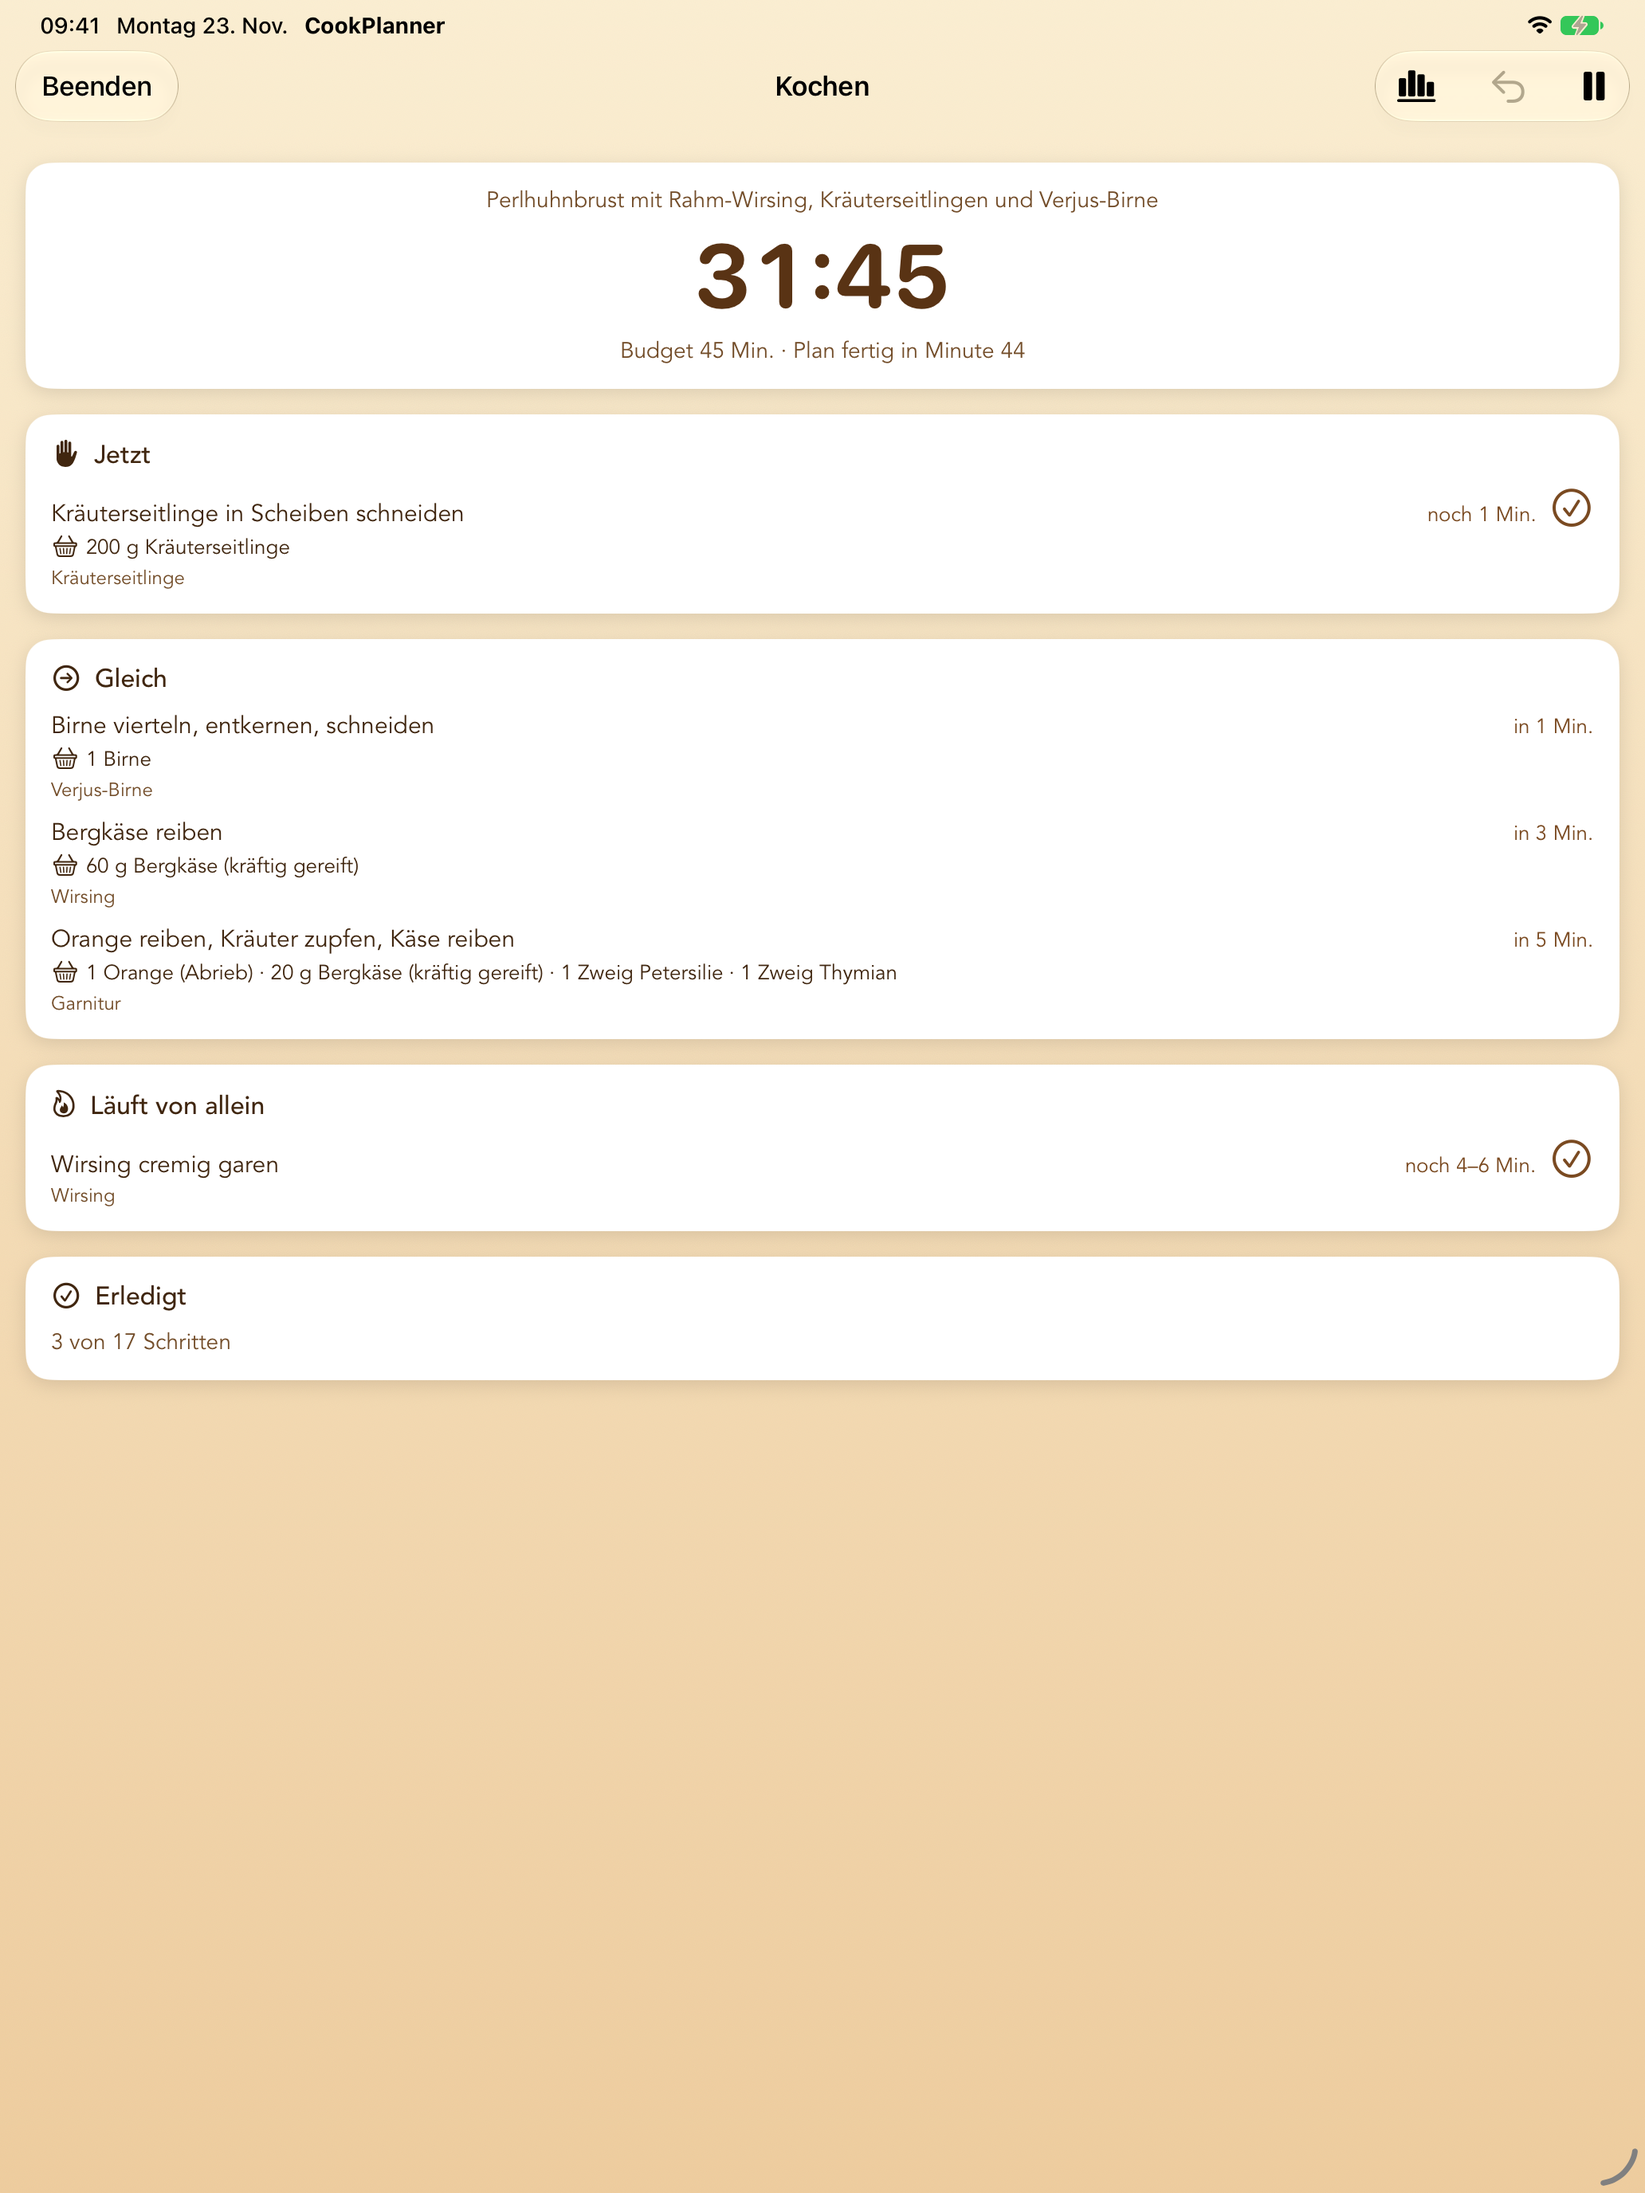
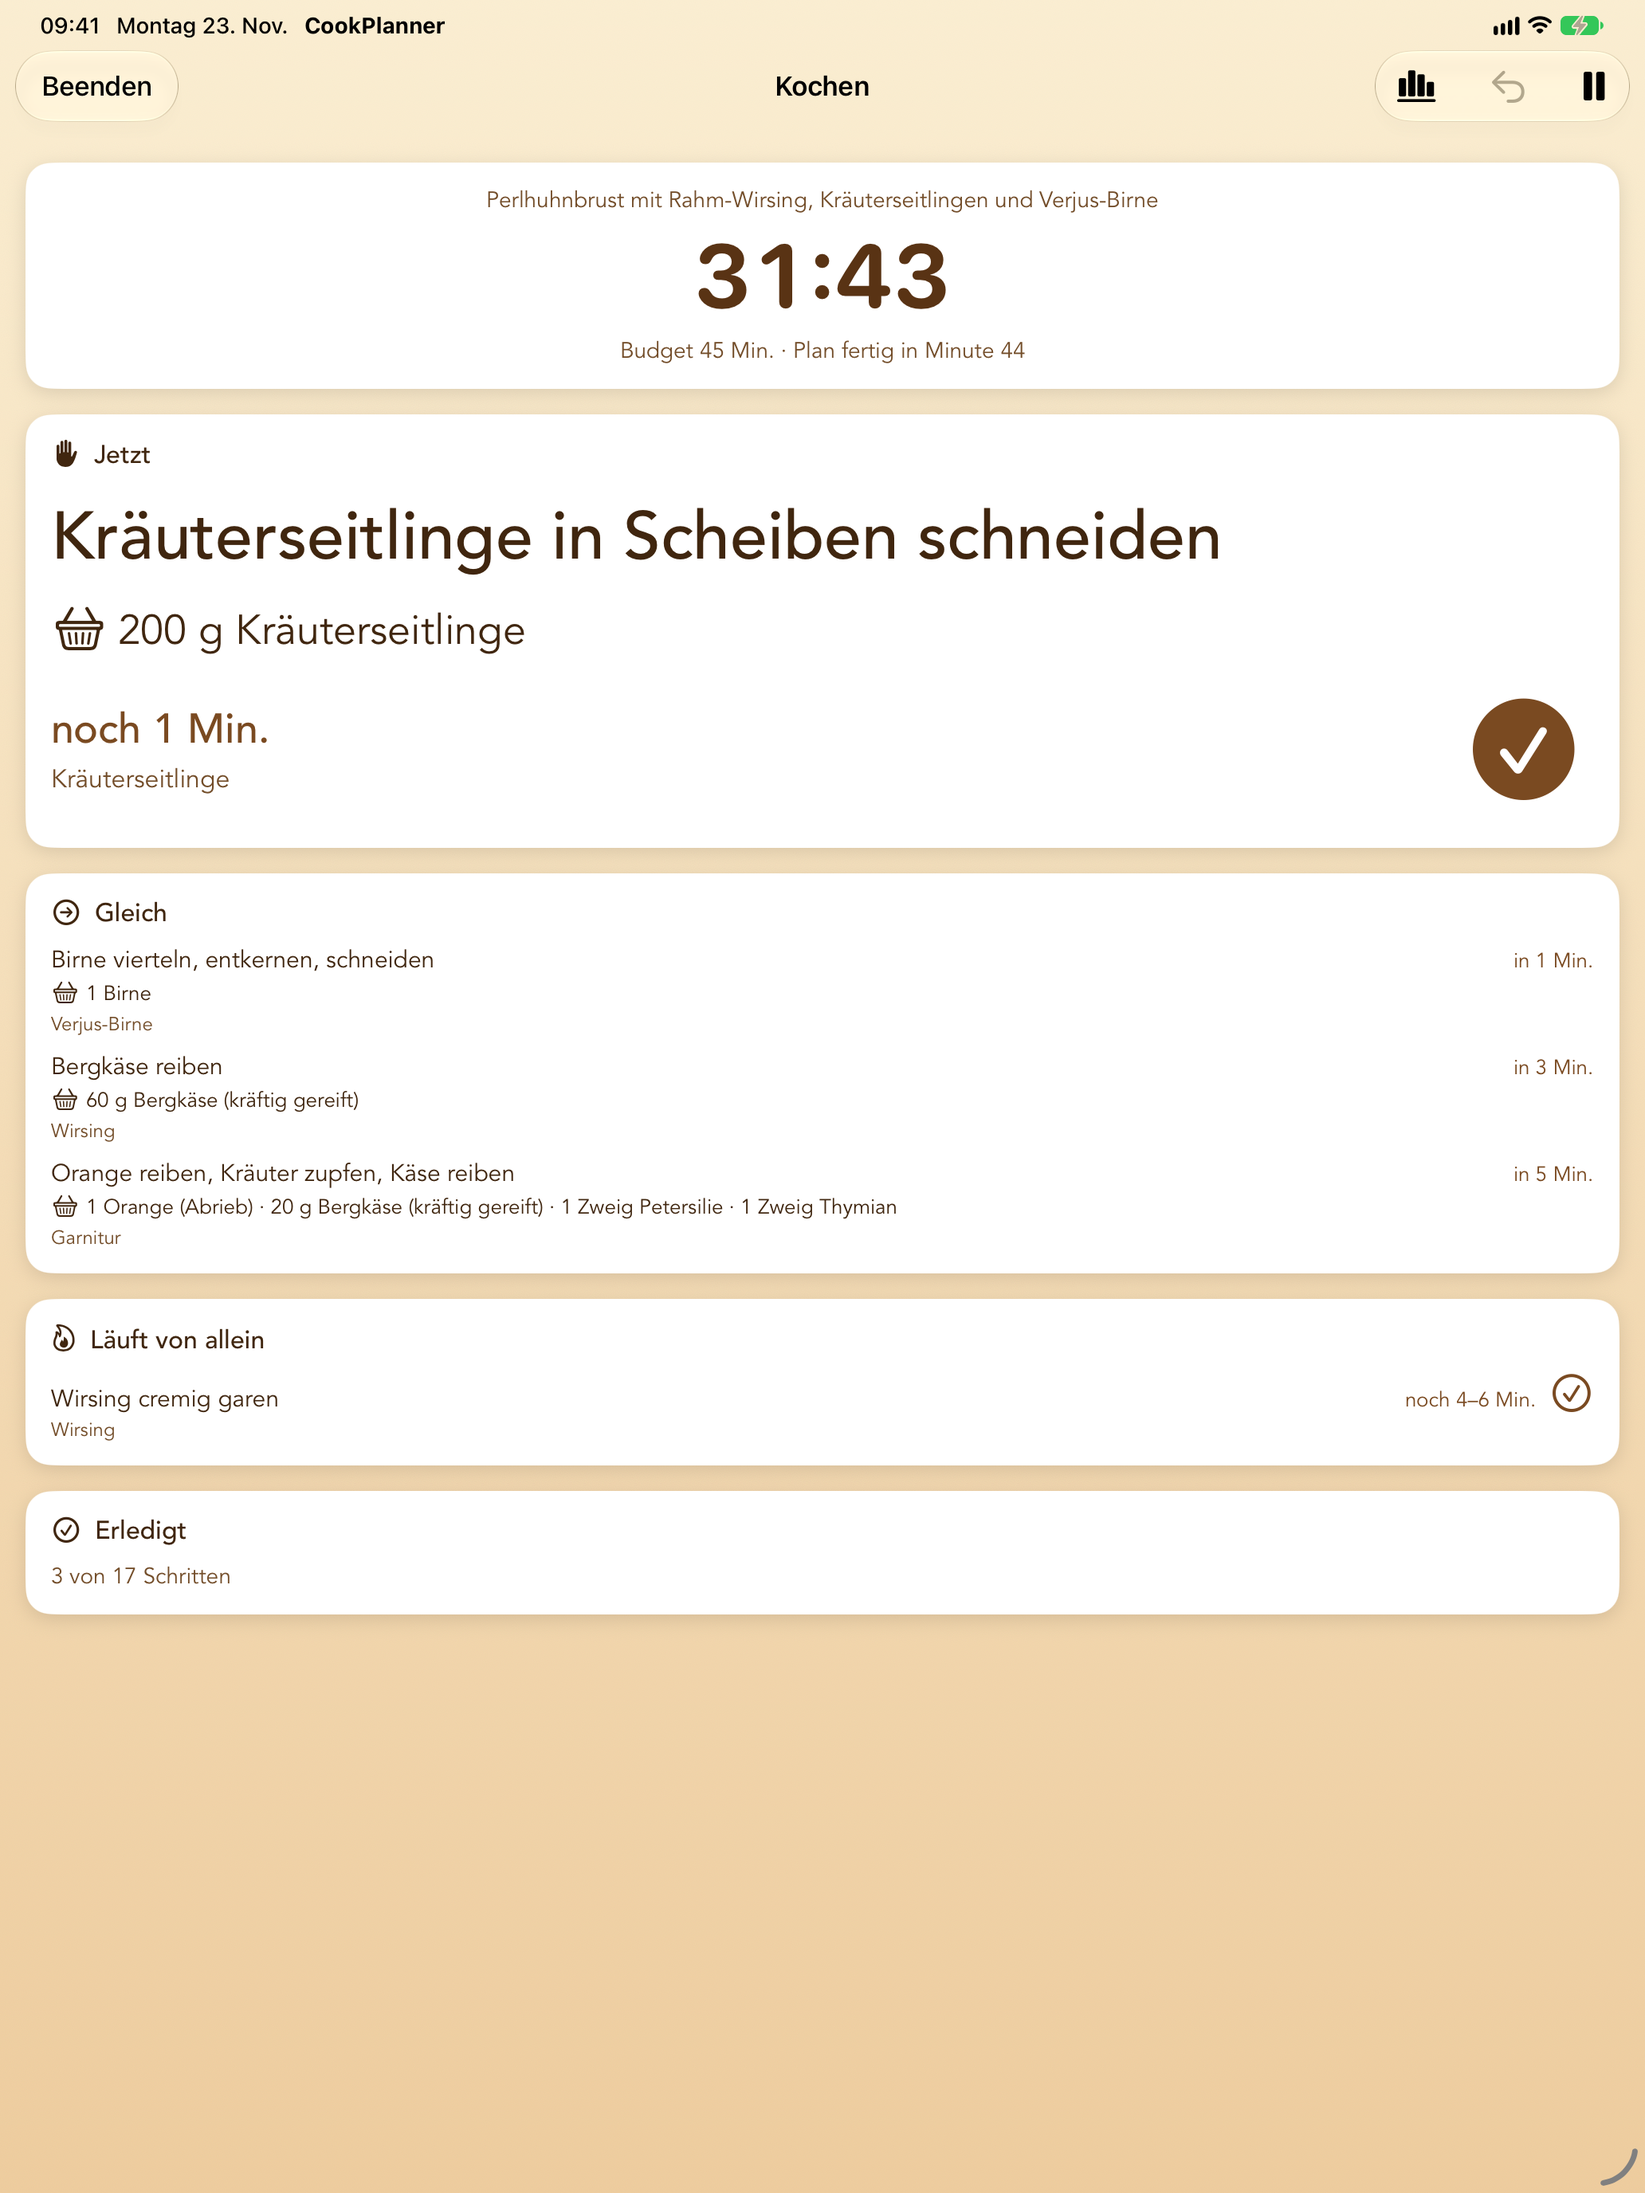
CookPlanner's cook mode shows the current step large enough to read from across the kitchen, and keeps the screen on
The step under "Jetzt" gets a 30 pt name (42 on iPad and the unfolded
Duo), 20 pt ingredients and time left, and a big check button; what
comes next stays small. The screen no longer locks while cooking.
Store picture 04 retaken on all three devices.

Changed region(s): [[0.0, 0.2188, 0.9922, 0.75], [0.9302, 0.2188, 0.9612, 0.25]]

diff --git a/CookPlanner/CookModeView.swift b/CookPlanner/CookModeView.swift
@@ -13,6 +13,7 @@
 
 import BakePlannerCore
 import SwiftUI
+import UIKit
 
 struct CookModeView: View {
 
@@ -35,6 +36,9 @@ struct CookModeView: View {
     #endif
 
     @Environment(\.dismiss) private var dismiss
+    /// Wide (iPad, unfolded Duo): the device stands further away, the
+    /// current step grows further.
+    @Environment(\.horizontalSizeClass) private var sizeClass
     @State private var startedAt: Date?
     /// While paused, when the pause began; the clock stands still.
     @State private var pausedAt: Date?
@@ -91,7 +95,11 @@ struct CookModeView: View {
                 }
                 .presentationDetents([.medium, .large])
             }
+            // The phone lies on the counter while the hands are busy: the
+            // screen stays on as long as the cook mode is open.
+            .onAppear { UIApplication.shared.isIdleTimerDisabled = true }
             .onDisappear {
+                UIApplication.shared.isIdleTimerDisabled = false
                 CookReminders.shared.cancelAll()
                 CookAlarms.shared.cancelAll()
                 CookActivityManager.shared.endAll()
@@ -373,11 +381,11 @@ struct CookModeView: View {
                         if handsNow.isEmpty {
                             if let next = upcoming.first {
                                 Text("Hände frei, in \(next.start - minute) Min. weiter")
-                                    .font(Theme.bodyFont(15))
+                                    .font(Theme.bodyFont(24).weight(.semibold))
                                     .foregroundColor(Theme.subtitle)
                             } else if doneCount == placements.count {
                                 Text("Fertig, anrichten!")
-                                    .font(Theme.bodyFont(15))
+                                    .font(Theme.bodyFont(28).weight(.semibold))
                                     .foregroundColor(Theme.good)
                             }
                         }
@@ -385,7 +393,7 @@ struct CookModeView: View {
                             let overdue = minute >= placement.start + placement.task.handsMinutes
                             stepLine(placement, ingredients: plan.dish.ingredients(for: placement.task),
                                      detail: overdue ? "überfällig" : "noch \(placement.start + placement.task.handsMinutes - minute) Min.",
-                                     emphasis: overdue) {
+                                     emphasis: overdue, large: true) {
                                 tickOff(placement.id, minute: minute)
                             }
                         }
@@ -525,50 +533,105 @@ struct CookModeView: View {
         .cardStyle()
     }
 
+    /// A step. `large` is for what is in the hands right now: read from
+    /// across the kitchen, with wet or busy hands — the name at twice the
+    /// size, the time left and the ingredients clearly, and a check mark
+    /// big enough to hit with a knuckle.
+    @ViewBuilder
     private func stepLine(_ placement: KitchenPlacement, ingredients: [KitchenIngredient] = [],
-                          detail: LocalizedStringKey, emphasis: Bool = false,
+                          detail: LocalizedStringKey, emphasis: Bool = false, large: Bool = false,
                           onDone: (() -> Void)? = nil) -> some View {
-        HStack(alignment: .firstTextBaseline) {
-            VStack(alignment: .leading, spacing: 1) {
+        if large {
+            let wide = sizeClass == .regular
+            VStack(alignment: .leading, spacing: wide ? 12 : 8) {
                 Text(verbatim: placement.task.name)
-                    .font(Theme.bodyFont(15))
+                    .font(Theme.bodyFont(wide ? 42 : 30).weight(.semibold))
                     .foregroundColor(Theme.cardTitle)
                     .fixedSize(horizontal: false, vertical: true)
-                // What to have at hand for the step, as the recipe lists it.
                 if !ingredients.isEmpty {
-                    HStack(alignment: .firstTextBaseline, spacing: 4) {
+                    HStack(alignment: .firstTextBaseline, spacing: 6) {
                         Image(systemName: "basket")
                             .accessibilityHidden(true)
                         Text(verbatim: ingredients.map { $0.line() }.joined(separator: " · "))
                             .fixedSize(horizontal: false, vertical: true)
                     }
-                    .font(Theme.bodyFont(13))
+                    .font(Theme.bodyFont(wide ? 26 : 20))
                     .foregroundColor(Theme.cardTitle)
-                    .padding(.vertical, 1)
                 }
-                HStack(spacing: 6) {
-                    if !placement.task.component.isEmpty {
-                        Text(verbatim: placement.task.component)
+                HStack(alignment: .center, spacing: 12) {
+                    VStack(alignment: .leading, spacing: 2) {
+                        Text(detail)
+                            .font(Theme.bodyFont(wide ? 26 : 20).weight(.semibold).monospacedDigit())
+                            .foregroundColor(emphasis ? Theme.danger : Theme.accentText)
+                        HStack(spacing: 6) {
+                            if !placement.task.component.isEmpty {
+                                Text(verbatim: placement.task.component)
+                            }
+                            if let temperature = placement.task.ovenTemperature {
+                                Text("Ofen \(temperature) °C")
+                            }
+                        }
+                        .font(Theme.bodyFont(16))
+                        .foregroundColor(Theme.subtitle)
                     }
-                    if let temperature = placement.task.ovenTemperature {
-                        Text("Ofen \(temperature) °C")
+                    Spacer(minLength: 8)
+                    if let onDone {
+                        Button(action: onDone) {
+                            Image(systemName: "checkmark.circle.fill")
+                                .font(.system(size: wide ? 64 : 52))
+                                .foregroundColor(Theme.accentText)
+                                .frame(width: wide ? 88 : 72, height: wide ? 88 : 72)
+                                .contentShape(Rectangle())
+                        }
+                        .buttonStyle(.plain)
+                        .accessibilityLabel("Schritt erledigt")
                     }
                 }
-                .font(Theme.bodyFont(12))
-                .foregroundColor(Theme.subtitle)
             }
-            Spacer()
-            Text(detail)
-                .font(Theme.bodyFont(13).monospacedDigit())
-                .foregroundColor(emphasis ? Theme.danger : Theme.accentText)
-            if let onDone {
-                Button(action: onDone) {
-                    Image(systemName: "checkmark.circle")
-                        .font(.system(size: 24))
-                        .foregroundColor(Theme.accentText)
+            .padding(.vertical, 4)
+        } else {
+            HStack(alignment: .firstTextBaseline) {
+                VStack(alignment: .leading, spacing: 1) {
+                    Text(verbatim: placement.task.name)
+                        .font(Theme.bodyFont(15))
+                        .foregroundColor(Theme.cardTitle)
+                        .fixedSize(horizontal: false, vertical: true)
+                    // What to have at hand for the step, as the recipe lists it.
+                    if !ingredients.isEmpty {
+                        HStack(alignment: .firstTextBaseline, spacing: 4) {
+                            Image(systemName: "basket")
+                                .accessibilityHidden(true)
+                            Text(verbatim: ingredients.map { $0.line() }.joined(separator: " · "))
+                                .fixedSize(horizontal: false, vertical: true)
+                        }
+                        .font(Theme.bodyFont(13))
+                        .foregroundColor(Theme.cardTitle)
+                        .padding(.vertical, 1)
+                    }
+                    HStack(spacing: 6) {
+                        if !placement.task.component.isEmpty {
+                            Text(verbatim: placement.task.component)
+                        }
+                        if let temperature = placement.task.ovenTemperature {
+                            Text("Ofen \(temperature) °C")
+                        }
+                    }
+                    .font(Theme.bodyFont(12))
+                    .foregroundColor(Theme.subtitle)
                 }
-                .buttonStyle(.plain)
-                .accessibilityLabel("Schritt erledigt")
+                Spacer()
+                Text(detail)
+                    .font(Theme.bodyFont(13).monospacedDigit())
+                    .foregroundColor(emphasis ? Theme.danger : Theme.accentText)
+                if let onDone {
+                    Button(action: onDone) {
+                        Image(systemName: "checkmark.circle")
+                            .font(.system(size: 24))
+                            .foregroundColor(Theme.accentText)
+                    }
+                    .buttonStyle(.plain)
+                    .accessibilityLabel("Schritt erledigt")
+                }
             }
         }
     }

diff --git a/docs/Idee-Gegen-die-Uhr.md b/docs/Idee-Gegen-die-Uhr.md
@@ -182,6 +182,10 @@ Wunsch Hans-Peter: Einkaufsliste und die Zutaten am Kochschritt. **Modell** (#19
 
 Wunsch Hans-Peter: die Uhr umdrehen. Der Kochmodus zeigt jetzt die Stoppuhr ab 0:00 (Pausen zählen nicht), darunter „Plan N Min. · noch mm:ss“ bzw. die Zeit über dem Plan. Jedes Abhaken merkt sich die Sekunde; „Erledigt“ listet die Schritte mit ihrer Zeit. „Beenden“ fragt „Beenden und Protokoll sichern“, „Beenden ohne Protokoll“ oder „Weiterkochen“ (als Meldung, der Dialog zeigte auf dem iPhone kein Weiterkochen). Das **Protokoll** (`KitchenCookRun`, JSON-Datei `cook-runs.json` neben der Datenbank, `CookRunLog`) hält je Schritt fest: erledigt bei, gebraucht, geplant, Unterschied; ein Handschritt zählt ab dem vorigen Abhaken oder ab seiner Planminute, wenn die später lag; Töpfe und Wartezeiten ohne Abhaken enden nach Plan (Uhr-Symbol). Ein vorzeitig beendeter Durchgang sagt „Vorzeitig beendet: n von m Schritten“ statt eines Unterschieds. Auf dem Plan steht die Karte „Gekocht“ mit den letzten Durchgängen. Später: aus den Protokollen die Schätzungen des Gerichts nachstellen.
 
+### Kochmodus aus der Entfernung lesbar (23.11.)
+
+Wunsch Hans-Peter: Beim Schneiden oder am Herd steht man weiter weg. Der Schritt unter **„Jetzt“** steht jetzt groß: Name 30 pt halbfett über die ganze Breite (42 pt auf iPad und aufgeklappter Duo), Zutaten und Restzeit 20 pt (26 pt), der Haken ein gefüllter Knopf mit 72 × 72 pt Fläche (88 pt). „Hände frei …“ und „Fertig, anrichten!“ ebenfalls groß; „Gleich“ und „Läuft von allein“ bleiben klein, damit der aktuelle Schritt heraussticht. Die Schrift wächst mit der iOS-Textgröße mit. Neu: Solange der Kochmodus offen ist, bleibt der Bildschirm an (`isIdleTimerDisabled`). Store-Bild 04 auf allen drei Geräten neu.
+
 ### App-Symbol mit Tiefe (23.11.)
 
 Wunsch Hans-Peter: näher an BakePlanners Symbol, mit 3D-Wirkung. `scripts/cookplanner-icon.swift` zeichnet jetzt Licht von links oben und Schatten für jede Form: Glut, die zu den Ecken schwarz wird; gusseiserne Pfanne mit hellem Rand, Glanzbogen, Innenwand und warm angestrahltem Boden; ein Spiegelei mit glänzendem Dotter als warmer Blickfang wie das Brot; als Plakette eine runde, gekippte Stoppuhr mit Krone, cremefarbener Lünette und orangem, glänzendem Zifferblatt (statt der flachen Karte). Weiterhin ohne Bildgenerator, 1024 × 1024 ohne Alpha.
